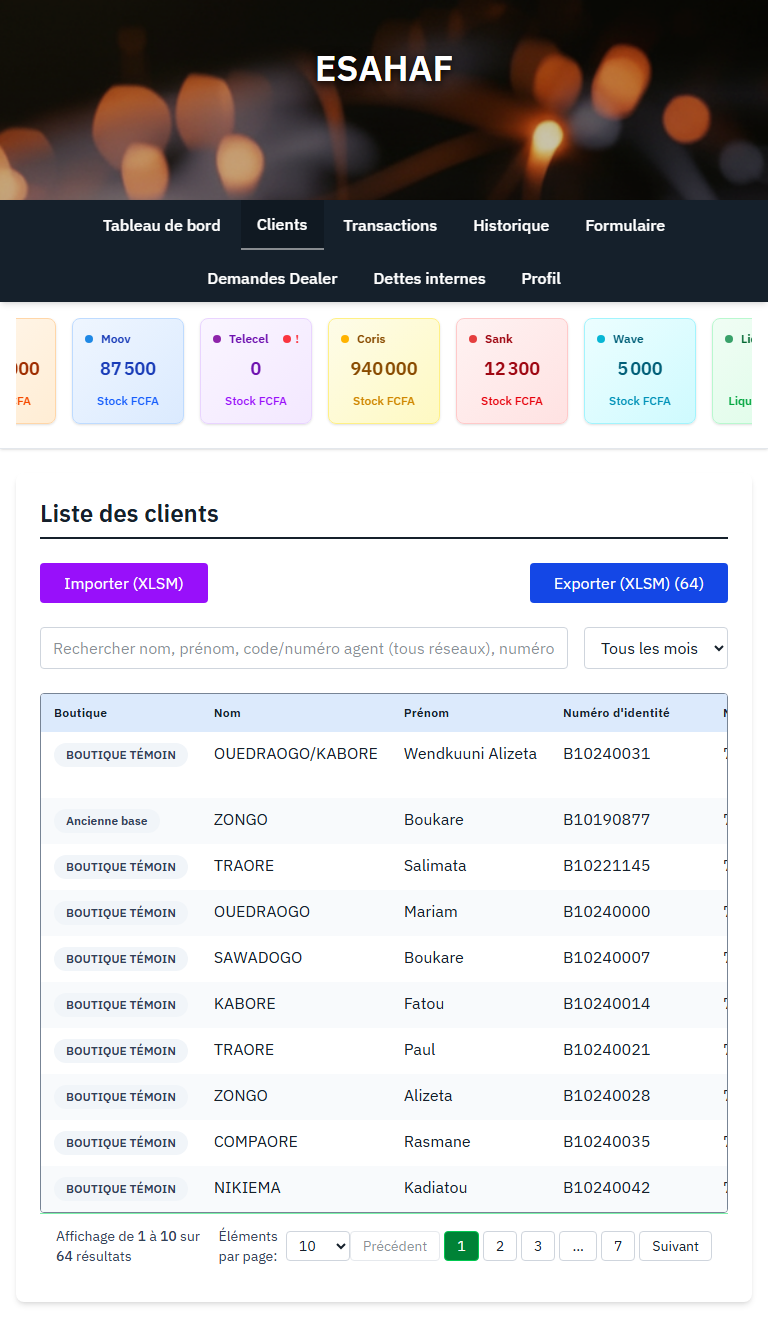
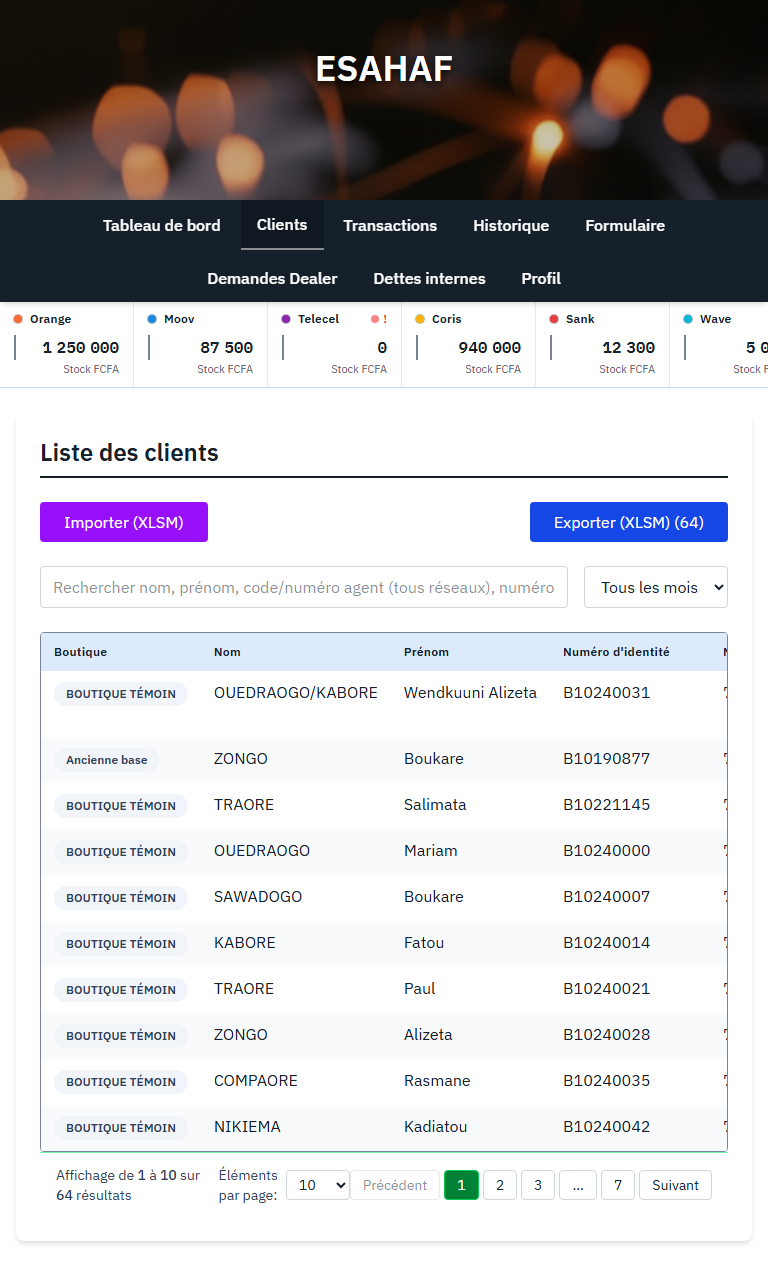
feat(design): L7.4c — la bande des reserves perd ses sept pastels
RESTYLE PUR, sous `.design-registre`. Aucun texte, aucun comportement, aucune
donnee. Les classes teintees RESTENT dans le JSX : un profil multi-reseaux sans
l'identite « registre » les recoit inchangees, et TAOFIC n'emprunte meme pas ce
chemin de code (mono-reseau -> barre compacte).

LE DEFAUT

Chaque reserve portait un degrade tire de sa couleur d'operateur : orange, bleu,
violet, jaune, rouge, cyan, vert. Sept fonds differents pour sept lignes qui
disent toutes la meme chose — un nom, un montant. La couleur d'un operateur
IDENTIFIE un tiers ; etalee en aplat sur toute la carte, elle cesse d'identifier
et devient un decor, et le montant — la seule information qu'on vient chercher —
se lit sur sept fonds differents.

Elle reste, concentree sur la pastille, a cote du nom ecrit en toutes lettres :
un repere de balayage, jamais un code (DESIGN.md §5).

CE QUE LES PASTELS CACHAIENT, ET QUE JE N'AVAIS PAS PREVU

`bg-gradient-to-br` emet une `background-image`, et axe REFUSE de calculer un
contraste sur un fond qu'il ne peut pas reduire a une couleur : il classe
l'element en « incomplete » au lieu de « violation ». TOUTE LA BANDE etait donc
hors de portee du scanner depuis le debut. Le degrade ne se contentait pas de ne
rien encoder — il empechait de mesurer ce qui s'ecrivait dessus.

C'est aussi pourquoi la neutralisation vise `background-image: none` et pas
seulement `background-color` : une image de fond se peint PAR-DESSUS la couleur.
[…]

diff --git a/src/index.css b/src/index.css
@@ -615,6 +615,145 @@ body {
   border-radius: 2px;
 }
 
+/* ═══════════════════════════════════════════════════════════════════════════
+   LA BANDE DES RÉSERVES (lot L7.4c) — RESTYLE PUR
+   ───────────────────────────────────────────────────────────────────────────
+   SEPT PASTELS QUI N'ENCODAIENT RIEN
+
+   Chaque réserve portait un dégradé tiré de sa couleur d'opérateur : orange,
+   bleu, violet, jaune, rouge, cyan, vert. Sept fonds différents pour sept
+   lignes qui disent toutes la même chose — un nom, un montant. La couleur d'un
+   opérateur IDENTIFIE un tiers ; étalée en aplat sur toute la carte, elle
+   cesse d'identifier et devient un décor, et le montant — la seule information
+   qu'on vient chercher — se lit sur sept fonds différents.
+
+   Ils partent. La couleur d'opérateur reste, concentrée sur la pastille, à
+   côté du nom écrit en toutes lettres : c'est un repère de balayage, jamais un
+   code (DESIGN.md §5).
+
+   CE QUE LES PASTELS CACHAIENT AUSSI
+
+   `bg-gradient-to-br` émet une `background-image`, et axe REFUSE de calculer un
+   contraste sur un fond qu'il ne peut pas réduire à une couleur : il classe
+   l'élément en « incomplete » au lieu de « violation ». Toute la bande était
+   donc hors de portée du scanner. Le dégradé ne se contentait pas de ne rien
+   dire — il empêchait de mesurer ce qui s'écrivait dessus.
+
+   POURQUOI `background-image: none` ET NON LE RETRAIT DE LA CLASSE
+
+   Les classes teintées restent dans le JSX pour qu'un profil multi-réseaux sans
+   l'identité « registre » les reçoive inchangées. On neutralise donc ici, et il
+   faut viser la bonne propriété : `background-color` ne recouvre pas une
+   `background-image`, qui se peint PAR-DESSUS. Sans `none`, le dégradé resterait
+   visible et la mesure resterait impossible.
+
+   LA RÉGLURE DE L'ARGENT S'APPLIQUE ICI AUSSI
+
+   Chaque montant porte `data-montant`, donc la réglure verticale et les chiffres
+   tabulaires — la maquette la porte également sur les réserves. Ce sont des
+   montants ; ce sont même les premiers montants que l'œil rencontre.
+   ═══════════════════════════════════════════════════════════════════════════ */
+
+.design-registre [data-bande-reserves] {
+  background: var(--color-papier);
+  /* `--trait-200` (1,47:1) et non `--reglure` (1,21:1) : ce filet sépare la
+     bande de la page, il porte plus loin que ceux qui séparent les réserves
+     entre elles. Chiffres vérifiés par `npm run qa:jetons`. */
+  border-bottom: 1px solid var(--color-trait-200);
+  /* L'ombre portée disparaît : elle est le tic que DESIGN.md §1 désigne
+     nommément, et le filet dit la même chose sans flou. */
+  box-shadow: none;
+}
+
+/* Les réserves sont JOINTIVES, séparées par un trait — et non des cartes
+   flottant sur un fond. C'est ce qui fait une bande plutôt qu'une collection :
+   on la lit d'un balayage horizontal, sans que l'œil ait à franchir un vide
+   entre chaque élément. */
+.design-registre [data-reserve-cadre] {
+  padding: 0;
+}
+
+.design-registre [data-reserve-piste] {
+  gap: 0;
+  padding-bottom: 0;
+  /* `flex-start` et non `center` : centrées, sept réserves qui débordent
+     cachent la PREMIÈRE autant que la dernière, et la première est celle qu'on
+     regarde. Une piste qui défile commence à son début. */
+  justify-content: flex-start;
+}
+
+.design-registre [data-reserve] {
+  background-image: none;
+  background-color: var(--color-papier);
+  border: 0;
+  border-right: 1px solid var(--color-reglure);
+  border-radius: 0;
+  box-shadow: none;
+  flex: 1 0 auto;
+  min-width: 8.375rem;
+  max-width: none;
+  padding: 0.5625rem 0.875rem 0.625rem;
+}
+
+/* `hover:shadow-md` relève aussi de l'ombre molle, et une réserve ne se clique
+   pas : lui donner un retour au survol promet une action qui n'existe pas. */
+.design-registre [data-reserve]:hover {
+  box-shadow: none;
+}
+
+.design-registre [data-reserve]:last-child {
+  border-right: 0;
+}
+
+/* La caisse n'est pas un stock : elle ferme la bande, et son fond la détache
+   des réserves réseau sans rien ajouter de coloré. */
+.design-registre [data-reserve='caisse'] {
+  background-color: var(--color-canvas);
+}
+
+.design-registre [data-reserve] h3 {
+  color: var(--color-encre);
+  font-size: 0.75rem;
+  font-weight: 600;
+  letter-spacing: 0.02em;
+}
+
+.design-registre [data-reserve] [data-montant] {
+  color: var(--color-encre);
+  display: block;
+  font-size: 1rem;
+  font-weight: 600;
+  margin-bottom: 0;
+}
+
+.design-registre [data-reserve] [data-reserve-mention] {
+  color: var(--color-encre-doux);
+  display: block;
+  font-size: 0.6875rem;
+  font-weight: 400;
+  margin-top: 0.125rem;
+  text-align: right;
+}
+
+/* La pastille porte une couleur de TIERS (les 49 couleurs d'opérateur de
+   networkConfig.js sont des DONNÉES, pas des jetons). Plusieurs sont claires —
+   le jaune Coris #ffb300, le cyan Wave — et disparaissent sur du papier. Un
+   anneau à l'encre leur rend un bord sans toucher à la couleur elle-même, qui
+   ne nous appartient pas. */
+.design-registre [data-pastille] {
+  box-shadow: 0 0 0 1px rgb(21 32 43 / 0.3);
+}
+
+/* Sur téléphone, la bande montre trois réserves et se défile : des réserves
+   plus étroites en montreraient quatre illisibles. La maquette tranche dans le
+   même sens (110 px sous 640 px). */
+@media (max-width: 639px) {
+  .design-registre [data-reserve] {
+    min-width: 6.875rem;
+    padding: 0.5rem 0.6875rem;
+  }
+}
+
 /* ── Écran de connexion ─────────────────────────────────────────────────────
    Le rendu 'legacy' sert un dégradé `from-blue-50 to-indigo-100` — le tic que
    DESIGN.md §1 désigne nommément, sur le premier écran que voit l'utilisateur.

diff --git a/src/components/network/NetworkBalanceCard.jsx b/src/components/network/NetworkBalanceCard.jsx
@@ -2,14 +2,23 @@ import { memo } from 'react'
 import { NETWORK_CONFIG, formatAmountWithCurrency } from '../../constants/networkConfig'
 
 /**
- * NetworkBalanceCard — carte de solde VERTICALE (affichage seul) du rideau boutique
- * multi-réseaux (NetworkCardsDrawer, branche IS multi). Fond dégradé teinté par réseau,
- * pastille + nom, gros montant, libellé « Stock FCFA » / « Liquidité FCFA », et un
- * indicateur « ! » quand le stock est nul/critique.
+ * NetworkBalanceCard — une réserve de la bande (affichage seul) du côté boutique
+ * multi-réseaux (NetworkCardsDrawer, branche IS multi) : pastille + nom, montant,
+ * libellé « Stock FCFA » / « Liquidité FCFA », et un indicateur « ! » quand le
+ * stock est nul.
  *
  * Volontairement SANS édition : la boutique (store_admin) ne modifie pas les soldes
  * (cashier.canEditBalances piloté par profil, actuellement false). L'édition dealer
  * reste dans NetworkCard (chemin mono, inchangé pour TAOFIC).
+ *
+ * LES CLASSES TAILWIND TEINTÉES RESTENT DANS CE JSX, ET C'EST VOULU
+ * `config.gradient`, `config.border`, `config.text` et `config.textLight` sont
+ * conservés tels quels : un profil multi-réseaux SANS l'identité « registre »
+ * continue de les recevoir, octet pour octet. L'identité les neutralise depuis
+ * `src/index.css`, sous `.design-registre`. Les `data-*` ci-dessous sont des
+ * FAITS — « ceci est une réserve », « ceci est la caisse », « ceci est de
+ * l'argent » — et non des consignes d'apparence : aucun `if` de client dans
+ * l'arbre JSX, donc aucune occasion d'en oublier un.
  */
 function NetworkBalanceCard({ network, stockAmount, liquiditeAmount }) {
   const config = NETWORK_CONFIG[network]
@@ -24,6 +33,7 @@ function NetworkBalanceCard({ network, stockAmount, liquiditeAmount }) {
 
   return (
     <div
+      data-reserve={isLiquiditeCard ? 'caisse' : 'reseau'}
       className={`
         bg-gradient-to-br ${config.gradient}
         border ${config.border}
@@ -36,6 +46,7 @@ function NetworkBalanceCard({ network, stockAmount, liquiditeAmount }) {
       <div className="flex items-center justify-between mb-2">
         <div className="flex items-center gap-2">
           <span
+            data-pastille
             className="w-2 h-2 rounded-full"
             style={{ backgroundColor: config.color }}
           />
@@ -53,10 +64,14 @@ function NetworkBalanceCard({ network, stockAmount, liquiditeAmount }) {
 
       {/* Montant + libellé */}
       <div className="text-center">
-        <div className={`font-bold text-lg ${config.text} mb-1`}>
+        {/* `data-montant` : un FAIT — ceci est de l'argent en FCFA. C'est ce qui
+            lui vaut les chiffres tabulaires et la réglure verticale, la
+            signature du produit (src/index.css §« LE FILET DU REGISTRE »). La
+            maquette la porte aussi sur les réserves : ce sont des montants. */}
+        <div data-montant className={`font-bold text-lg ${config.text} mb-1`}>
           {amount}
         </div>
-        <span className={`text-xs ${config.textLight} font-medium`}>
+        <span data-reserve-mention className={`text-xs ${config.textLight} font-medium`}>
           {label}
         </span>
       </div>

diff --git a/src/components/network/NetworkCardsDrawer.jsx b/src/components/network/NetworkCardsDrawer.jsx
@@ -162,11 +162,12 @@ function BandeDesReserves({ top = 0 }) {
       className="sticky z-30 bg-white border-b border-gray-200 shadow-sm"
       style={{ top: `${top}px` }}
     >
-      <div className="px-2 sm:px-4 py-3 sm:py-4">
+      <div data-reserve-cadre className="px-2 sm:px-4 py-3 sm:py-4">
         {/* Même exigence que partout ailleurs : une zone à défilement horizontal
             non focalisable rend ses derniers réseaux inatteignables au clavier
             (constat Q3, relevé à 375 px). */}
         <div
+          data-reserve-piste
           tabIndex={0}
           role="region"
           aria-label="Soldes par reseau, defilement horizontal"
